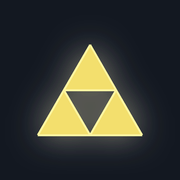
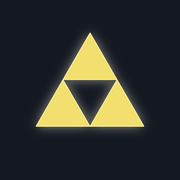
Corrige centralizacao do icone Triforce, compatibilidade do PWA no Android e layout do menu em landscape

Changed region(s): [[0.1944, 0.1667, 0.8056, 0.8333]]

diff --git a/style.css b/style.css
@@ -129,110 +129,149 @@ canvas.filter-omniscale {
   background-size: 100% 100%, 3px 3px, 3px 3px;
 }
 
+
 /* ==========================================================
-   Menu Zelda Web Flutuante com Opacidade (Idêntico ao APK)
+   Backdrop e Layout do Menu Responsivo (Mobile Horizontal/Landscape)
    ========================================================== */
-.game-menu-container {
-  position: absolute;
-  top: 55px;
-  left: 24px;
-  width: 320px;
-  max-width: calc(100% - 48px);
-  z-index: 100;
+.game-menu-backdrop {
+  position: fixed;
+  top: 0; left: 0; right: 0; bottom: 0;
+  background: rgba(0, 0, 0, 0.65);
+  backdrop-filter: blur(4px);
+  -webkit-backdrop-filter: blur(4px);
+  z-index: 180;
+  opacity: 1;
+  transition: opacity 0.2s ease, visibility 0.2s ease;
   pointer-events: auto;
-  transition: opacity 0.25s ease, transform 0.25s ease, visibility 0.25s ease;
+}
+
+.game-menu-backdrop.menu-hidden {
+  opacity: 0;
+  visibility: hidden;
+  pointer-events: none;
+}
+
+.game-menu-container {
+  position: fixed;
+  top: 50px;
+  left: 20px;
+  width: 330px;
+  max-width: calc(100% - 40px);
+  z-index: 200;
+  pointer-events: auto;
+  transition: opacity 0.22s ease, transform 0.22s ease, visibility 0.22s ease;
 }
 
 .game-menu-container.menu-hidden {
   opacity: 0;
   visibility: hidden;
-  transform: translateY(-10px);
+  transform: translateY(-12px);
   pointer-events: none;
 }
 
-@media (max-width: 600px) {
-  .game-menu-container {
-    top: 52px;
-    left: 50%;
-    transform: translateX(-50%);
-    width: 320px;
-  }
-  .game-menu-container.menu-hidden {
-    transform: translate(-50%, -10px);
-  }
-}
-
 .game-menu-panel {
-  background: transparent;
-  border-radius: 18px;
-  padding: 0;
-  box-shadow: none;
-  max-height: 85vh;
+  background: rgba(16, 20, 26, 0.96);
+  border: 1px solid rgba(243, 223, 109, 0.35);
+  border-radius: 16px;
+  padding: 10px 14px 14px 14px;
+  box-shadow: 0 10px 40px rgba(0, 0, 0, 0.85);
+  max-height: 80vh;
   display: flex;
   flex-direction: column;
   overflow-y: auto;
-  scrollbar-width: thin;
-  scrollbar-color: rgba(255,255,255,0.2) transparent;
+  -webkit-overflow-scrolling: touch;
+  touch-action: pan-y;
+  overscroll-behavior: contain;
 }
 
-/* Abas estilo cápsula no topo */
-.game-tabs {
+.menu-header {
   display: flex;
-  background: transparent;
-  padding: 0;
+  justify-content: space-between;
+  align-items: center;
+  padding-bottom: 8px;
   margin-bottom: 8px;
-  gap: 4px;
-  width: 100%;
-  overflow-x: auto;
-  scrollbar-width: none;
-}
-.game-tabs::-webkit-scrollbar {
-  display: none;
+  border-bottom: 1px solid rgba(255, 255, 255, 0.1);
 }
 
-.game-tab {
-  flex: 1 0 auto;
-  background: var(--tab-bg);
-  backdrop-filter: blur(12px);
-  -webkit-backdrop-filter: blur(12px);
-  border: 1px solid rgba(255, 255, 255, 0.08);
-  color: #cbd5e1;
-  padding: 6px 8px;
-  font-size: 12px;
-  font-weight: 500;
-  border-radius: 14px;
-  cursor: pointer;
-  text-align: center;
-  transition: all 0.15s ease;
-  white-space: nowrap;
-}
-
-.game-tab.active {
-  background: var(--tab-gold);
-  border-color: var(--tab-border);
-  color: #fff;
-  font-weight: 600;
-  box-shadow: 0 2px 8px rgba(0, 0, 0, 0.4);
-}
-
-.game-tab-content {
-  display: none;
-  flex-direction: column;
-}
-
-.game-tab-content.active {
-  display: flex;
-}
-
-.game-section-title {
-  font-size: 11px;
+.menu-title {
+  font-size: 13.5px;
   font-weight: 700;
-  text-transform: uppercase;
-  letter-spacing: 0.8px;
-  color: #94a3b8;
-  margin: 10px 4px 5px 4px;
-  text-shadow: 0 1px 2px rgba(0,0,0,0.8);
+  color: #f8fafc;
+  display: flex;
+  align-items: center;
 }
+
+.menu-close-btn {
+  background: rgba(255, 255, 255, 0.15);
+  border: 1px solid rgba(255, 255, 255, 0.25);
+  color: #fff;
+  border-radius: 50%;
+  width: 28px;
+  height: 28px;
+  display: flex;
+  align-items: center;
+  justify-content: center;
+  font-size: 14px;
+  font-weight: bold;
+  cursor: pointer;
+  transition: background 0.15s;
+}
+
+.menu-close-btn:active {
+  background: rgba(239, 68, 68, 0.6);
+}
+
+/* Otimização Específica para Celular/Tablet na Horizontal (Landscape / Tela Deitada) */
+@media (orientation: landscape) and (max-height: 550px) {
+  .game-menu-container {
+    top: 6px;
+    left: 50%;
+    transform: translateX(-50%);
+    width: min(640px, 96vw);
+    max-width: 96vw;
+  }
+  .game-menu-container.menu-hidden {
+    transform: translate(-50%, -12px);
+  }
+  .game-menu-panel {
+    max-height: calc(100vh - 12px);
+    padding: 8px 12px 10px 12px;
+  }
+  .game-tabs {
+    margin-bottom: 6px;
+    gap: 4px;
+  }
+  .game-tab {
+    padding: 5px 8px;
+    font-size: 11.5px;
+  }
+  .game-tab-content.active {
+    display: grid !important;
+    grid-template-columns: 1fr 1fr;
+    gap: 6px;
+  }
+  .game-section-title {
+    grid-column: 1 / -1;
+    margin: 4px 2px 2px 2px;
+    font-size: 10.5px;
+  }
+  .game-option {
+    padding: 7px 10px;
+    margin-bottom: 0;
+    gap: 8px;
+    border-radius: 10px;
+  }
+  .option-label {
+    font-size: 12.5px;
+  }
+  #game-chapters-list {
+    grid-column: 1 / -1;
+    display: grid;
+    grid-template-columns: 1fr 1fr;
+    gap: 6px;
+  }
+}
+
 
 /* Opções estilo botão arredondado preto com transparência (Idêntico ao Zelda Web) */
 .game-option {

diff --git a/sw.js b/sw.js
@@ -1,60 +1,40 @@
-const CACHE_NAME = 'zelda-web-v1';
-
-const STATIC_ASSETS = [
-  './',
-  './index.html',
-  './style.css',
-  './app.js',
-  './zelda.js',
-  './chapters.json',
-  './manifest.json',
-  './icon-192.png',
-  './icon-512.png',
-  './apple-touch-icon.png',
-  './favicon.ico'
-];
+const CACHE_NAME = 'zelda-web-v3';
 
 self.addEventListener('install', (event) => {
-  event.waitUntil(
-    caches.open(CACHE_NAME).then((cache) => {
-      return cache.addAll(STATIC_ASSETS);
-    }).then(() => self.skipWaiting())
-  );
+  self.skipWaiting();
 });
 
 self.addEventListener('activate', (event) => {
   event.waitUntil(
     caches.keys().then((keys) => {
       return Promise.all(
-        keys.map((key) => {
-          if (key !== CACHE_NAME) {
-            return caches.delete(key);
-          }
-        })
+        keys.filter((k) => k !== CACHE_NAME).map((k) => caches.delete(k))
       );
     }).then(() => self.clients.claim())
   );
 });
 
 self.addEventListener('fetch', (event) => {
-  // Ignora requisições não-GET
   if (event.request.method !== 'GET') return;
 
   event.respondWith(
-    caches.match(event.request).then((cached) => {
-      if (cached) {
-        return cached;
-      }
-      return fetch(event.request).then((response) => {
-        // Guarda na cache recursos estáticos requisitados
-        if (response && response.status === 200 && response.type === 'basic') {
-          const responseToCache = response.clone();
-          caches.open(CACHE_NAME).then((cache) => {
-            cache.put(event.request, responseToCache);
-          });
+    fetch(event.request)
+      .then((networkResponse) => {
+        if (networkResponse && networkResponse.status === 200) {
+          const clone = networkResponse.clone();
+          caches.open(CACHE_NAME).then((cache) => cache.put(event.request, clone));
         }
-        return response;
-      }).catch(() => cached);
-    })
+        return networkResponse;
+      })
+      .catch(() => {
+        return caches.match(event.request, { ignoreSearch: true })
+          .then((cachedResponse) => {
+            if (cachedResponse) return cachedResponse;
+            if (event.request.mode === 'navigate') {
+              return caches.match('./index.html') || caches.match('./');
+            }
+            return new Response('Offline', { status: 503, statusText: 'Offline' });
+          });
+      })
   );
 });

diff --git a/app.js b/app.js
@@ -184,13 +184,13 @@ async function loadAssets() {
 
   try {
     try {
-      const capRes = await fetch('chapters.json?v=' + Date.now(), { cache: 'no-store' });
+      const capRes = await fetch('chapters.json?v=' + Date.now());
       if (capRes.ok) chaptersData = await capRes.json();
     } catch (e) {
       console.warn('Não foi possível carregar chapters.json:', e);
     }
 
-    const response = await fetch('assets.dat?v=' + Date.now(), { cache: 'no-store' });
+    const response = await fetch('assets.dat?v=' + Date.now());
     if (!response.ok) {
       throw new Error(`Falha ao obter assets.dat (HTTP ${response.status})`);
     }
@@ -380,22 +380,37 @@ function setSpeed(multiplier) {
 }
 
 function initGameMenu() {
-  // Alternar visibilidade do menu ao tocar no botão de Menu
-  el('btn-menu-toggle')?.addEventListener('click', (e) => {
+  const menuBackdrop = el('menu-backdrop');
+  const btnClose = el('btn-menu-close');
+  const btnToggle = el('btn-menu-toggle');
+
+  const toggleMenu = () => {
+    const isHidden = gameMenu.classList.toggle('menu-hidden');
+    if (menuBackdrop) menuBackdrop.classList.toggle('menu-hidden', isHidden);
+  };
+
+  const closeMenu = () => {
+    gameMenu.classList.add('menu-hidden');
+    if (menuBackdrop) menuBackdrop.classList.add('menu-hidden');
+  };
+
+  btnToggle?.addEventListener('click', (e) => {
     e.stopPropagation();
-    gameMenu.classList.toggle('menu-hidden');
+    toggleMenu();
   });
 
-  // Impedir que cliques dentro do menu o fechem
-  gameMenu.querySelector('.game-menu-panel')?.addEventListener('click', (e) => {
+  btnClose?.addEventListener('click', (e) => {
     e.stopPropagation();
+    closeMenu();
   });
 
-  // Fechar o menu ao tocar no canvas do jogo
-  canvas?.addEventListener('click', () => {
-    if (!gameMenu.classList.contains('menu-hidden')) {
-      gameMenu.classList.add('menu-hidden');
-    }
+  menuBackdrop?.addEventListener('click', (e) => {
+    e.stopPropagation();
+    closeMenu();
+  });
+
+  gameMenu?.addEventListener('click', (e) => {
+    e.stopPropagation();
   });
 
   // Alternar abas do menu (Cheats, Image, Chapters, Saves)

diff --git a/index.html b/index.html
@@ -64,8 +64,20 @@
     </div>
 
     <!-- Menu Flutuante Translúcido Zelda Web -->
-    <div id="game-menu" class="game-menu-container menu-visible">
+    <div id="menu-backdrop" class="game-menu-backdrop menu-hidden"></div>
+    <div id="game-menu" class="game-menu-container menu-hidden">
       <div class="game-menu-panel">
+        <div class="menu-header">
+          <span class="menu-title">
+            <svg class="triforce-svg" viewBox="0 0 100 86.6" width="16" height="14" style="vertical-align:middle;margin-right:6px;">
+              <polygon points="50,0 25,43.3 75,43.3" fill="#f3df6d" />
+              <polygon points="25,43.3 0,86.6 50,86.6" fill="#f3df6d" />
+              <polygon points="75,43.3 50,86.6 100,86.6" fill="#f3df6d" />
+            </svg>
+            Ajustes e Configurações
+          </span>
+          <button id="btn-menu-close" class="menu-close-btn" title="Fechar Menu">✕</button>
+        </div>
         <!-- Barra de Abas Estilo Cápsula (Pill Tabs) -->
         <div class="game-tabs">
           <button class="game-tab" data-tab="tab-cheats">Cheats</button>
